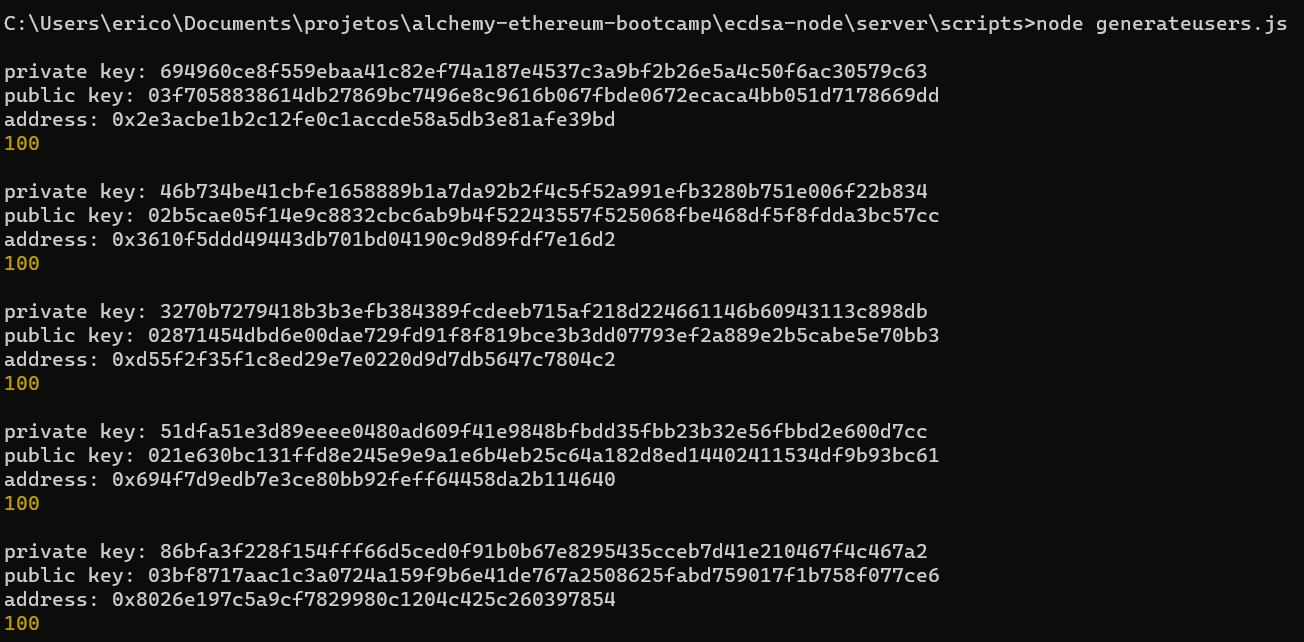
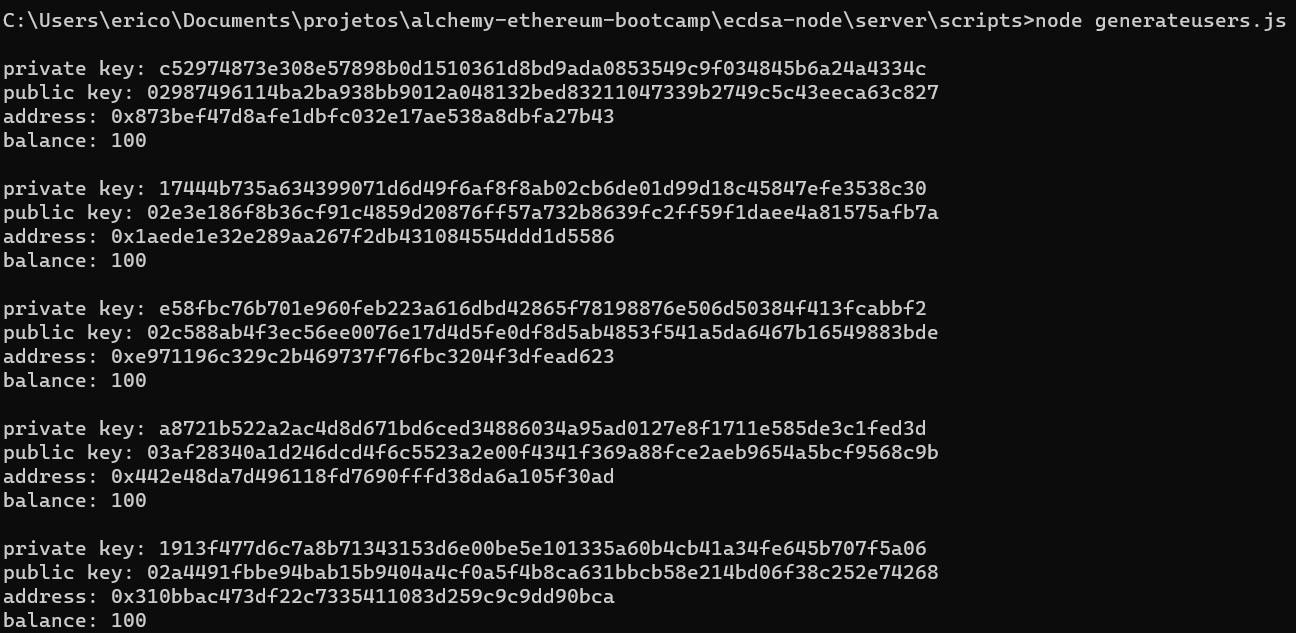
screens

diff --git a/server/index.js b/server/index.js
@@ -8,33 +8,33 @@ const { secp256k1 } = require('ethereum-cryptography/secp256k1');
 // Users Array created using "generateusers.js" on "server/scripts/"
 const users = [
   {
[2 lines of base64/hex data omitted]
-    address: '0xa2f127ae22c2a4e5561647268b68f09edb1af6bd',
[2 lines of base64/hex data omitted]
+    address: '0x873bef47d8afe1dbfc032e17ae538a8dbfa27b43',
     balance: 100,
   },
   {
[2 lines of base64/hex data omitted]
-    address: '0xecdd2dc4b96cf59760d3df6141cd4ed79da5e7d6',
[2 lines of base64/hex data omitted]
+    address: '0x1aede1e32e289aa267f2db431084554ddd1d5586',
     balance: 100,
   },
   {
[2 lines of base64/hex data omitted]
-    address: '0xb0d72b41617f2aa755c63d110f9c8f72a9d8f5ec',
[2 lines of base64/hex data omitted]
+    address: '0xe971196c329c2b469737f76fbc3204f3dfead623',
     balance: 100,
   },
   {
[2 lines of base64/hex data omitted]
-    address: '0xb28fbcac9bea07db53711ebc335d23896479e4bf',
[2 lines of base64/hex data omitted]
+    address: '0x442e48da7d496118fd7690fffd38da6a105f30ad',
     balance: 100,
   },
   {
[2 lines of base64/hex data omitted]
-    address: '0x0f5dd77864a3022d7fb2f38421dbb5df6cad5b08',
[2 lines of base64/hex data omitted]
+    address: '0x310bbac473df22c7335411083d259c9c9dd90bca',
     balance: 100,
   },
 ];

diff --git a/server/scripts/generateusers.js b/server/scripts/generateusers.js
@@ -23,7 +23,7 @@ const generateUsers = (numOfUsers=5) => {
     console.log('\nprivate key:', toHex(privateKey));
     console.log('public key:', toHex(publicKey));
     console.log(`address: 0x${toHex(address)}`);
-    console.log(balance);
+    console.log(`balance: ${balance}`);
   }
 
   return users;
